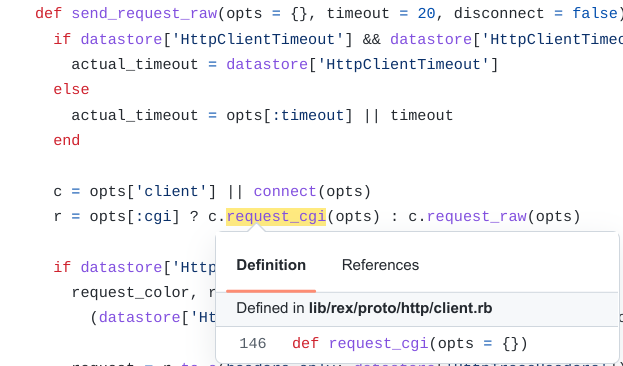
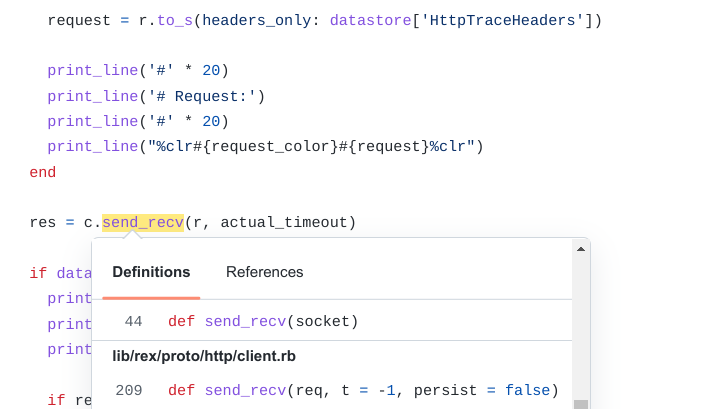
new clientReliantImage

diff --git a/_posts/2022-06-17-first-week.md b/_posts/2022-06-17-first-week.md
@@ -21,7 +21,7 @@ There are particularly four library files of interest with respect to this proje
 In the process of researching through the codebase, I found that the Exploit::Remote::HttpClient is reliant on the Rex::Proto::Http::Client for making requests to the server and obtaining back the responses. In the same way, Exploit::Remote::HttpServer is reliant on the Rex::Proto::Http::Server class for sending responses back to the Client. Thus, the Exploit class does not transmit requests on it's own, rather it makes a call to the methods of Rex class for doing so. Thus, our plan of creating the HTTP-Trace wrapper class for Rex::Proto::Http::Client and Rex::Proto::Http::Server will also serve the Exploit::Remote::Http::Client and Exploit::Remote::Http::Server with HTTP-Trace features since the later are reliant on the former.  
   
 | ![codeExampleClientDependency](../assets/img/clientReliant.png) |  
-| Code Example showing that _send_request_raw()_ method in [Exploit::Remote::HttpClient](https://github.com/rapid7/metasploit-framework/blob/master/lib/msf/core/exploit/remote/http_client.rb#L356-L364) is reliant on _request_cgi()_ method in [Rex::Proto::Http::Client](https://github.com/rapid7/metasploit-framework/blob/98b2234cab8cbb60f6907a268f65e69de7b7aae7/lib/rex/proto/http/client.rb#L146-L154) |
+| Code Example showing that _send_request_raw()_ method in [Exploit::Remote::HttpClient](https://github.com/rapid7/metasploit-framework/blob/master/lib/msf/core/exploit/remote/http_client.rb#L356-L406) is reliant on _send_recv()_ method in [Rex::Proto::Http::Client](https://github.com/rapid7/metasploit-framework/blob/98b2234cab8cbb60f6907a268f65e69de7b7aae7/lib/rex/proto/http/client.rb#L146-L154) |
   
 | ![codeExampleServerDependency](../assets/img/serverReliant.png) |  
 | Code example showing that _send_response()_ method in [Exploit::Remote::HttpServer](https://github.com/rapid7/metasploit-framework/blob/master/lib/msf/core/exploit/remote/http_server.rb#L553-L583) is reliant on _send_response()_ method in [Rex::Proto::Http::Server](https://github.com/rapid7/metasploit-framework/blob/98b2234cab8cbb60f6907a268f65e69de7b7aae7/lib/rex/proto/http/server.rb#L35-L45) |  
